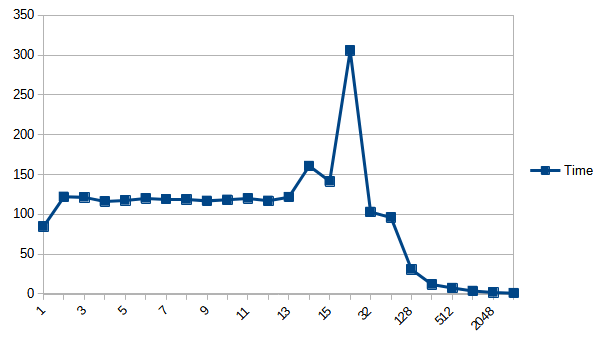
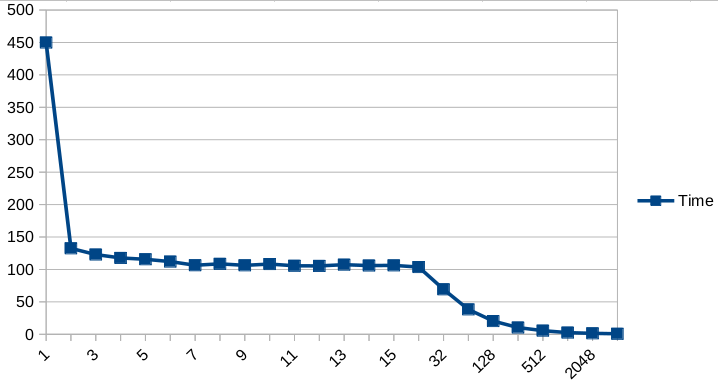
Update on cache line experiment

diff --git a/c/01_memory-and-cpu-cache/2_cache-line/main.c b/c/01_memory-and-cpu-cache/2_cache-line/main.c
@@ -22,11 +22,14 @@ int main() {
         fprintf(stderr, "Failed to open file\n");
         return -1;
     }    
-
+    array = malloc(arr_len * sizeof(uint32_t));
+    for (int i = 0; i < arr_len; ++i) {
+        array[i] = 0;
+    }
     fprintf(fp, "Step,Time,Sum\n");
     int step = 1;
+    
     while (step <= 4096) {
-        array = malloc(arr_len * sizeof(uint32_t));
         for (int i = 0; i < arr_len; ++i) {
             array[i] = rand();
         }
@@ -34,17 +37,20 @@ int main() {
         for (int i = 0; i < ITER; ++i) {
             for (int j = 1; j < arr_len; j += step) {
                 array[j] += array[j-1];
+                // strategically adding loop dependence to
+                // break out-of-order execution and vectorization.
             }
         }
         long time_elapsed = clock() - start_time;
         fprintf(fp, "%d,%.02lf,%d\n", step, time_elapsed / ITER / 1000.0, array[rand() % arr_len]);
-        free(array);
+        
         if (step < 16) {
             ++step;
         } else {
             step *= 2;
         }
     }
+    free(array);
     fclose(fp); //Don't forget to close the file when finished   
     return 0;
 }

diff --git a/c/01_memory-and-cpu-cache/2_cache-line/README.md b/c/01_memory-and-cpu-cache/2_cache-line/README.md
@@ -44,24 +44,40 @@ after that should be halved each time step size is doubled.
 
 * My results
 
-  * `gcc`:
-  ![gcc](./assets/my-results-gcc.png)
-  * `icc`:
-  ![icc](./assets/my-results-icc.png)
+ <table>
+  <tr>
+    <th>GCC</th>
+    <th>ICC</th>    
+  </tr>
+  <tr>
+    <td><img src="./assets/my-results-gcc.png" /></td>
+    <td><img src="./assets/my-results-icc.png" /></td>
+  </tr>
+  <tr>
+    <td><a href="./results-gcc.csv">Raw data</></td>
+    <td><a href="./results-icc.csv">Raw data</></td>
+  </tr>
+ </table>
 
 * Results are roughly consistent with the expected--before 16, the amount of time needed is more or less stable and
 after that the time needed is approximately halved as step size doubles.
 
-* There is one significantly different pattern: when step size is close to 1 or 16, there are some significant 
-fluctuations in both versions.
+* There is one significantly different pattern: both programs are much slower when step size is `1`
 
 * (Failed) attempts to eliminate this unexpected pattern:
   * Try different computers, both virtual and physical ones--so that virtual machine won't complicate the issue.
   * Iterate each step size a few times--so that some random peaks will be smoothed out.
   * Simplify the calculation within the main loop--so that calculations won't be the bottleneck.
-  * Disable vectorization and print out sample data--so that compilers can't just optimize my loop away.
+  * Add loop dependence to break out-of-order execution and vectorization--as they may obfuscate the result
+  in unexpceted manners.
+  * Print out sample data--so that compilers can't just optimize my loop away.
 
-* Other people results found online
+* One more guess: the program may become CPU-bound when step_size == 1. Various memory caching mechanisms only matter
+when a program is mostly memory-bound, which is mostly the case in reality. However, say a CPU's frequency is **1 Hz**
+(i.e., one cycly per second) then cache line or whatever caching won't matter any more--we should observe the time
+needed being halved as step size being doubled. Because the program will always be CPU-bound.
+
+* Other people's perfect results found online:
 
   * From [Igoro Ostrovsky](http://igoro.com/archive/gallery-of-processor-cache-effects/):
   ![](./assets/igoro-results.png) 

diff --git a/c/01_memory-and-cpu-cache/3_row-and-column-major-traversal/README.md b/c/01_memory-and-cpu-cache/3_row-and-column-major-traversal/README.md
@@ -167,4 +167,5 @@ Dim,	ArraySize(KB),	Row-Major Time,	RM Sample,	Col-Major Time,	CM Sample,	Diff
 
 * How about the tiny drop at around 1MB? My guess is that it is relevant to L1 cache, which is also 1MB in size.
 * How about the out-of-order execution? It seems to me that compilers aren't as smart as we think. OOO execution
-does not appears to be the cause of the issue. It does, however, cause issues when we [test the size of cache lines](../2_cache-line) though.
+does not appears to be the cause of the issue. It may, however, cause issues when we
+[test the size of cache lines](../2_cache-line) though.
